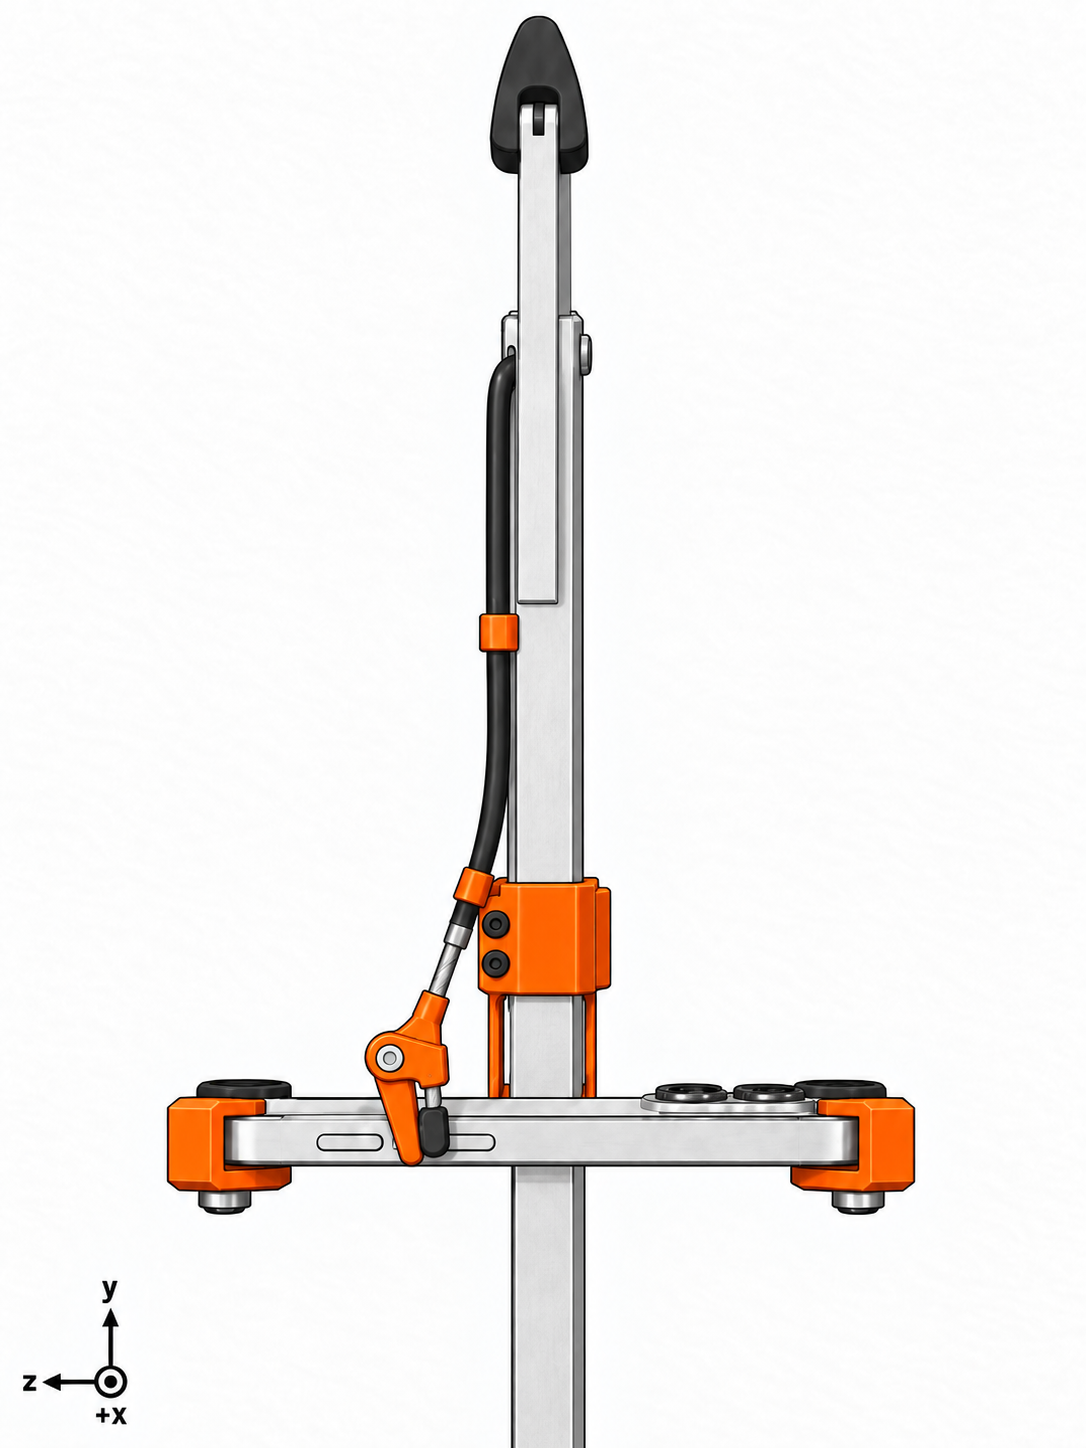
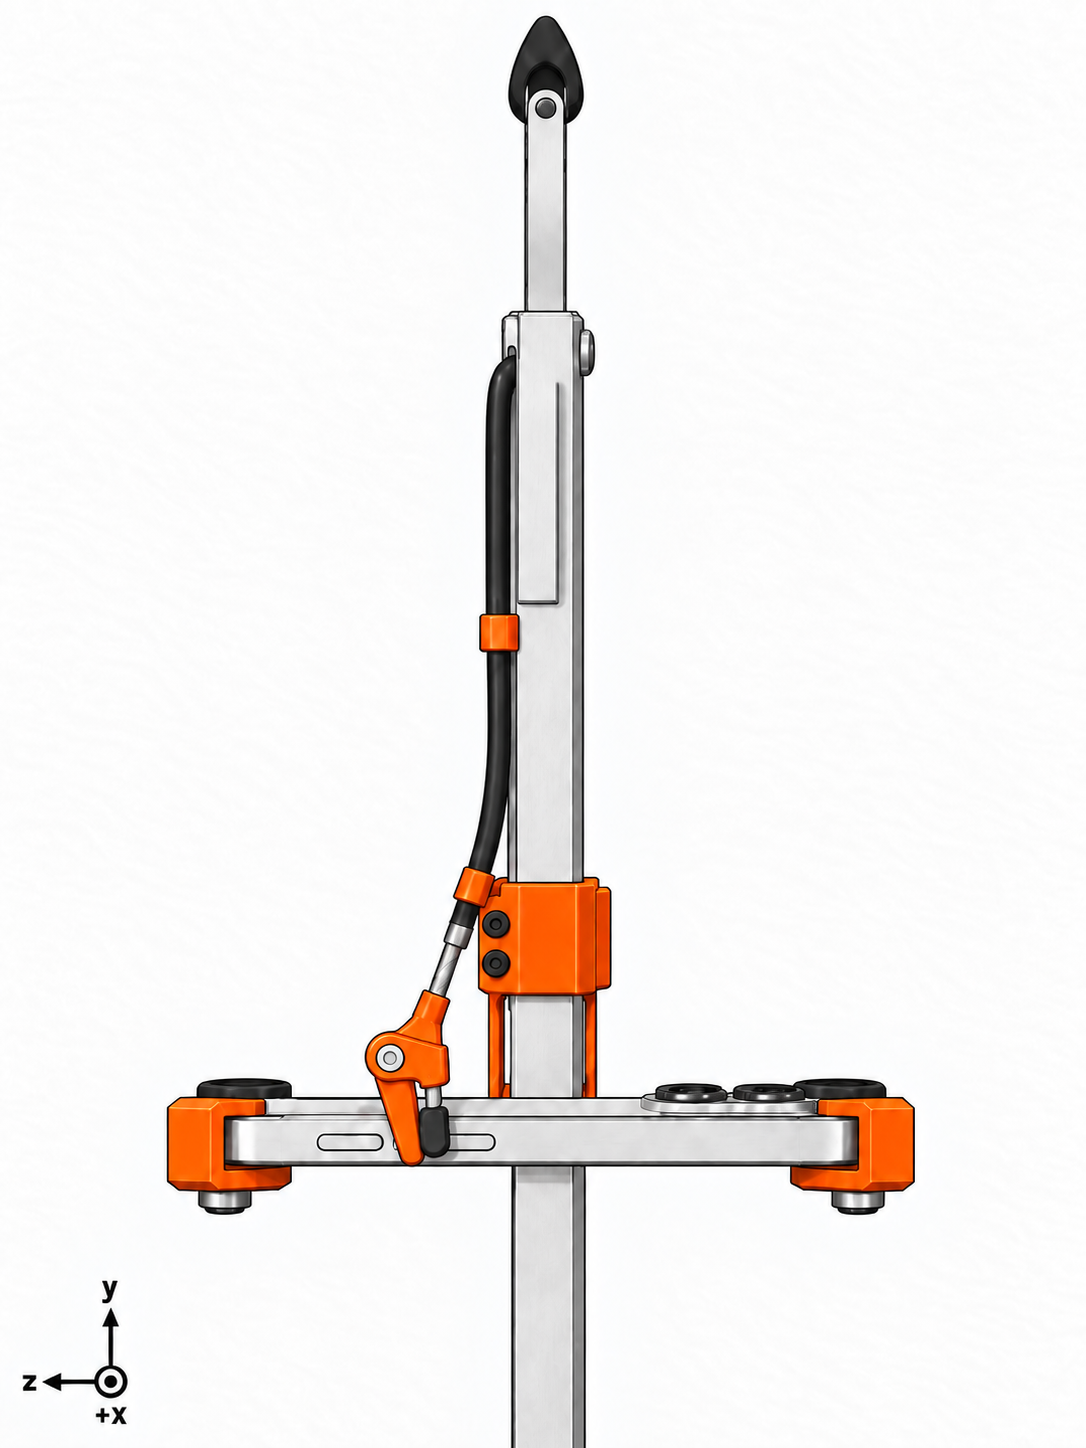
Align stock grabber geometry across concept views

diff --git a/cad/renders/stock-consistency.md b/cad/renders/stock-consistency.md
@@ -1,0 +1,14 @@
+# Stock grabber consistency review
+
+Use [0a](00a-stock-front.png) as the front-view stock baseline and [0b](00b-stock-side.png) as the side-view stock baseline. The source photograph shows only the front; 0b is an inferred side rendering. Compare only stock parts visible in each crop. The orange printed hardware, phone, and cable are proposed additions.
+
+| Retrofit view | Visible stock-tool comparison | Result |
+| --- | --- | --- |
+| [1a](01a-complete-front.png) | Two black claw feet, curved silver arms, square silver shaft, blue center brace, blue handle, and black squeeze trigger are retained. The claw span and brace height were revised toward 0a. | Visually consistent as a concept. |
+| [2a](02a-phone-mount-front.png) | The visible V-shaped claws, black feet, square silver neck, and pivot match the 0a stock layout at close-up scale. The center brace and handle are outside the crop. | Visually consistent in the visible area. |
+| [3a](03a-handle-front.png) | The square silver shaft, blue stock handle, and black moving trigger follow 0a at close-up scale. The claw and center brace are outside the crop. | Visually consistent in the visible area. |
+| [1b](01b-complete-side.png) | One overlapping black claw foot, square silver shaft, and front-facing blue handle follow 0b. The blue center brace stays at the stock midshaft location but is hidden by the horizontal phone in this projection. | Visually consistent where visible. |
+| [2b](02b-phone-mount-side.png) | One black foot, round claw pivot, and square silver neck follow the inferred 0b side layout at close-up scale. The center brace and handle are outside the crop. | Visually consistent in the visible area. |
+| [3b](03b-handle-side.png) | The square silver shaft and blue handle with centered rear grip follow 0b; the black squeeze trigger is hidden behind the handle. The claw and center brace are outside the crop. | Visually consistent in the visible area. |
+
+This is a visual check of generated illustrations, not proof that the images share one dimensioned 3D model. Exact shaft width, claw curvature, pivot geometry, handle proportions, and retrofit fit remain unverified. Measure the physical reacher and create a common CAD source before treating these as manufacturing drawings.

diff --git a/cad/renders/README.md b/cad/renders/README.md
@@ -17,4 +17,6 @@ The stock neck is a silver rectangular prism with a square cross-section, not a 
 
 These generated drawings communicate mechanical intent. The paired views are illustrative rather than geometrically locked CAD projections. They do not prove fit, lever travel, button force, cable tension, or camera clearance. Confirm those details on the physical grabber and iPhone before manufacturing.
 
+The [stock consistency review](stock-consistency.md) compares each retrofit view to its 0a or 0b reference and records what can and cannot be validated visually.
+
 Each PNG has a neighboring `.spec.json` file recording the requirements for that view. Consult and update it when revising the image.
